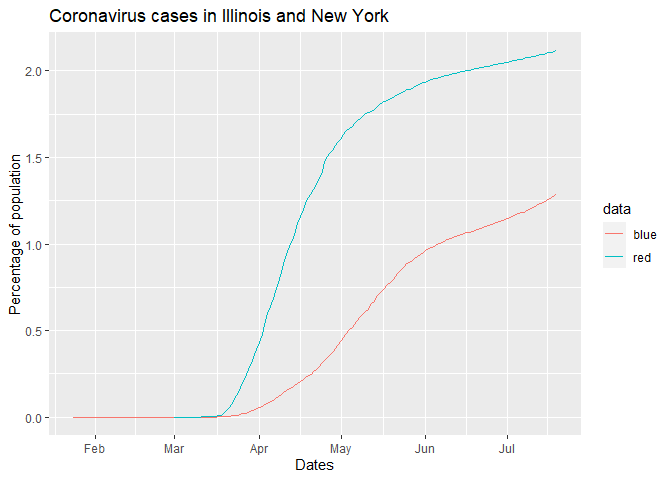
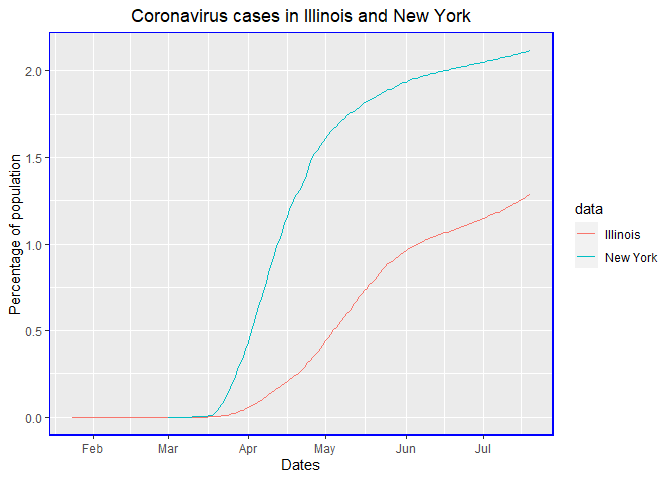
Got the legend labeled! Also figured out why I couldn't center my title. Missed a "+" so the my title-centering code was read as completely unrelated to my figure.

diff --git a/HW03.md b/HW03.md
@@ -31,36 +31,13 @@ ny_plot <- ggplot(nystate, aes(date, cases/19453561 * 100)) +
 
 ###Combining the two plots together
 ggplot() +
-  geom_line(data = illinois, aes(x = date, y = cases/12671821 * 100, color = 'blue')) +
-  geom_line(data = nystate, aes(x = date, y = cases/19453561 * 100, color = 'red')) +
-  labs(x = "Dates", y = "Percentage of population", color = "data", title = "Coronavirus cases in Illinois and New York") 
+  geom_line(data = illinois, aes(x = date, y = cases/12671821 * 100, color = 'Illinois')) +
+  geom_line(data = nystate, aes(x = date, y = cases/19453561 * 100, color = 'New York')) +
+  labs(x = "Dates", y = "Percentage of population", color = "data", title = "Coronavirus cases in Illinois and New York") +
+  theme(plot.title = element_text(hjust = 0.5)) +
+  ###I tried to center the plot title, but for some reason I was unable to with this code :(
+  ###Also tried different combinations of code to get the figure legend properly labeled but I kept getting error messages so I eventually gave up. Will come back to this when I have time
+  theme(panel.border = element_rect(color = "blue", size = 1, fill = NA))
 ```
 
 ![](HW03_files/figure-gfm/unnamed-chunk-2-1.png)<!-- -->
-
-``` r
-  theme(plot.title = element_text(hjust = 10)) +
-  ###I tried to center the plot title, but for some reason I was unable to with this code :(
-  ###Also tried different combinations of code to get the figure legend properly labeled but I kept getting error messages so I eventually gave up. Will come back to this when I have time
-  theme(panel.grid = element_blank())
-```
-
-    ## List of 2
-    ##  $ plot.title:List of 11
-    ##   ..$ family       : NULL
-    ##   ..$ face         : NULL
-    ##   ..$ colour       : NULL
-    ##   ..$ size         : NULL
-    ##   ..$ hjust        : num 10
-    ##   ..$ vjust        : NULL
-    ##   ..$ angle        : NULL
-    ##   ..$ lineheight   : NULL
-    ##   ..$ margin       : NULL
-    ##   ..$ debug        : NULL
-    ##   ..$ inherit.blank: logi FALSE
-    ##   ..- attr(*, "class")= chr [1:2] "element_text" "element"
-    ##  $ panel.grid: list()
-    ##   ..- attr(*, "class")= chr [1:2] "element_blank" "element"
-    ##  - attr(*, "class")= chr [1:2] "theme" "gg"
-    ##  - attr(*, "complete")= logi FALSE
-    ##  - attr(*, "validate")= logi TRUE
